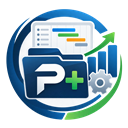
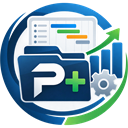
fix(pics): icone do plugin deixa de parecer menor que os vizinhos
Com background-size: contain o icone lia bem menor que os cards ao lado.
A caixa nao era o problema - span.icon-text e o <img> dos plugins
publicados medem 50x50 igual. Eram duas coisas somadas:

- o logo ocupava 78,3% do proprio canvas, o resto era margem
  transparente. O icone passa a ser recortado pela caixa alfa antes de
  ser reduzido;
- os vizinhos sem logo sao quadrados solidos com as iniciais, e um
  circulo inscrito num quadrado cobre ~78,5% da area. Mesmo preenchendo
  a caixa, um logo redondo pesa menos na leitura.

Dai o background-size de 122%, que corta so a borda externa do anel.

Conferido ao lado do card vizinho: isolado o icone parecia correto nos
dois casos.

diff --git a/css/projectplus.css b/css/projectplus.css
@@ -3172,7 +3172,11 @@
    background-image: url("../pics/icon.png") !important;
    background-position: center !important;
    background-repeat: no-repeat !important;
-   background-size: contain !important;
+   /* Acima de 100% de proposito: a caixa tem 50x50 e os vizinhos sao quadrados
+      preenchidos com as iniciais, enquanto este logo e redondo - um circulo
+      inscrito cobre ~78% do quadrado e parece bem menor ao lado deles. O
+      excedente corta so a borda externa do anel. */
+   background-size: 122% !important;
    color: transparent !important;
    font-size: 0 !important;
 }
